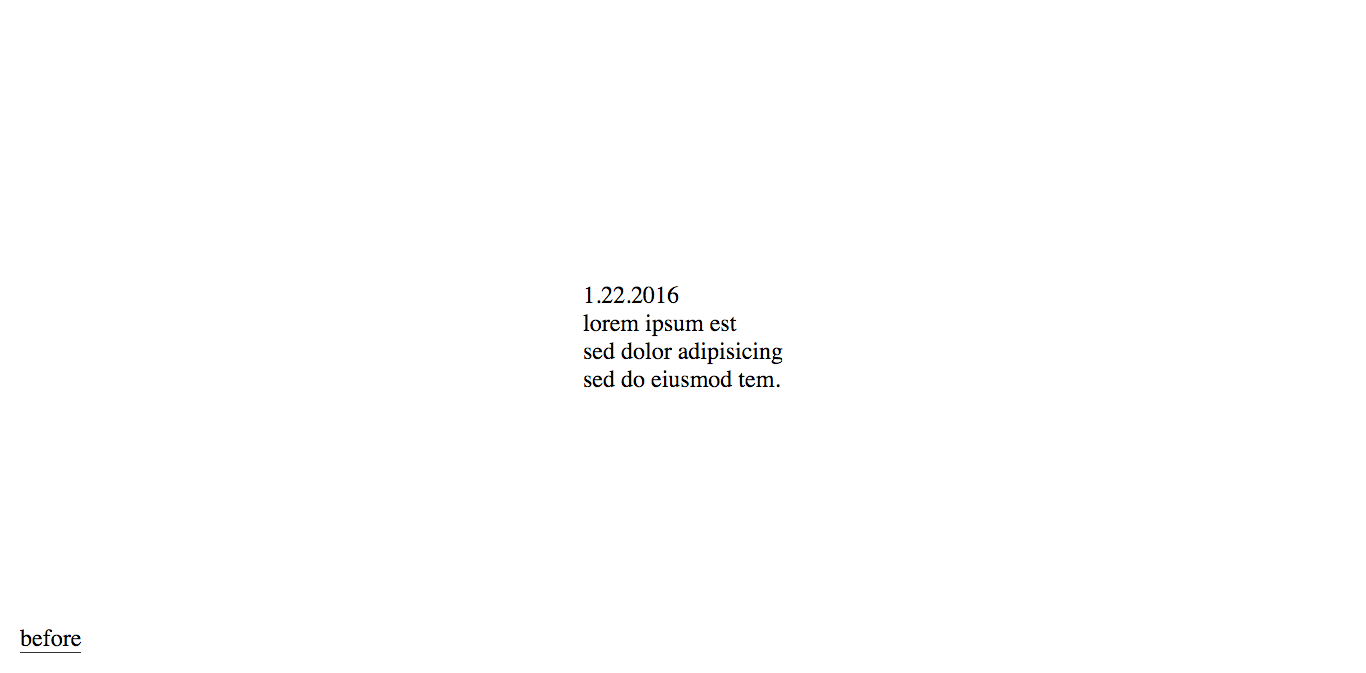
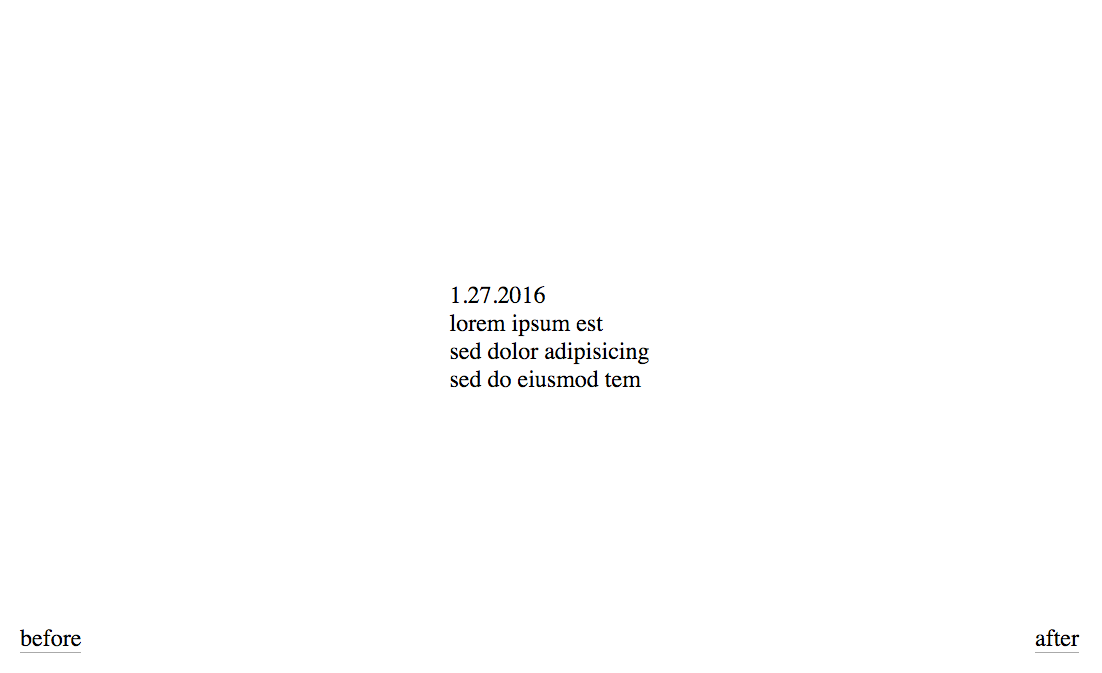
Button hover effects, more responsiveness, new screenshot

Changed region(s): [[0.4011, 0.4056, 0.5862, 0.5929], [0.0, 0.9361, 0.0926, 0.9673], [0.9256, 0.9361, 0.9873, 0.9673]]

diff --git a/style.css b/style.css
@@ -4,7 +4,7 @@ Theme URI: https://wordpress.org/themes/minim/
 Author: Erik Boesen
 Author URI: http://erikboesen.com/
 Description: Hyper-hyper-hyper-minimalistic theme.
-Version: 1.0
+Version: 1.1
 License: GNU General Public License v2 or later
 License URI: http://www.gnu.org/licenses/gpl-2.0.html
 Tags: minimalistic, minimal, minimalist, poem, poetry
@@ -21,7 +21,7 @@ body {
 body {
     margin: 0;
     font-family: serif;
-    font-size: 24px;
+    font-size: 1.5em;
     display: flex;
     justify-content: center;
     align-items: center;
@@ -32,7 +32,13 @@ body {
     bottom: 20px;
     color: inherit;
     text-decoration: none;
-    border-bottom: solid 1px #333;
+    border-bottom: solid 1px #aaa;
+    transition: .6s;
+}
+#before a:hover,
+#after a:hover {
+    border-bottom-color: #333;
+    transition: .5s;
 }
 #before a {
     left: 20px;

diff --git a/index.php b/index.php
@@ -3,6 +3,7 @@
 <head>
 	<meta charset="utf-8">
     <title>haiku</title>
+    <meta name="viewport" content="width=device-width, initial-scale=1">
     <link rel="stylesheet" href="<?php bloginfo('stylesheet_url'); ?>">
 </head>
 

diff --git a/README.md b/README.md
@@ -5,6 +5,6 @@ Haiku is a hyper-hyper-hyper-minimalistic theme for WordPress blogs. Originally 
 ---
 
 Features:
-* Ridiculously low footprint and page sizes (just over 1KB)
+* Ridiculously low footprint and page sizes (~1KB)
 * 100% responsive
 * No custom fonts or external resources and still looks beautiful
